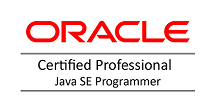
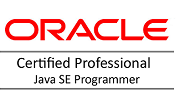
fixed some alignment

diff --git a/index.html b/index.html
@@ -87,8 +87,8 @@
                                 <h3 class="title mb-3"><a href="https://www.madeinindiaproducts.in" target="_blank">madeinindiaproducts.in - Amazon aggregator site caters only made in india products  </a></h3>
                                     
                                 <div class="desc text-left">                                    
-                                    <p>This is an eCommerce platfrom (an amazon aggregator) which is a catalogue to sale made in india products from amazon.in.
-									   User can check out large varities of indian origin products and can also pick the products and buy from amazon.in through this site which makes this site an amazon aggregator site.
+                                    <p>This is an eCommerce platfrom (an amazon aggregator) which is a catalogue to sell made in india products from amazon.in.
+									   customers can check out large varities of indian origin products and can also pick the products and buy from amazon.in through this site.
 									</p>
                                 </div><!--//desc-->         
                                 <a class="btn btn-cta-secondary" href="https://www.madeinindiaproducts.in" target="_blank"><i class="fas fa-thumbs-up"></i> Back my project</a>                 
@@ -101,7 +101,7 @@
                                 <div class="desc col-md-8 col-12">
                                     <h3 class="title"><a href="https://www.sageintacct.com/" target="_blank">Financial Management Cloud Solution (ERP) - The leading accounting and financial management software</a></h3>
                                     <p class="mb-2"> 
-									Sage Intacct offers financial management cloud solution to its lients and acquired by Sage (formerly known as Intacct).</p>
+									Sage Intacct offers financial management cloud solution (ERP) to its clients.</p>
                                     <p><a class="more-link" href="https://www.sageintacct.com/" target="_blank"><i class="fas fa-external-link-alt"></i>Find out more</a></p>
                                 </div><!--//desc-->                          
                             </div><!--//item-->
@@ -112,9 +112,9 @@
                                 </a>
                                 <div class="desc col-md-8 col-12">
                                     <h3 class="title"><a href="https://www.godigit.com/" target="_blank">Go Digit General Insurance - Direct portal for selling insurance to customers</a></h3>
-                                    <p class="mb-2"><ul>
-										<li>This is a customer facing portal for selling various Insurance products like Motor Insurance, Health Insurance, FLight Delay Insurance or Mobile Insurance</li>
-                                    </ul></p>
+                                    <p class="mb-2">
+										This is a customer facing portal for selling various Insurance products like Motor Insurance, Health Insurance, FLight Delay Insurance or Mobile Insurance
+                                    </p>
                                     <p><a class="more-link" href="https://www.godigit.com/" target="_blank"><i class="fas fa-external-link-alt"></i>Find out more</a></p>
                                 </div><!--//desc-->                          
                             </div><!--//item-->
@@ -131,14 +131,17 @@
                                 <h3 class="title">Software Engineer - <span class="place"><a href="#">Sage Intacct</a></span> <span class="year">(2018 - 2020)</span></h3>
                                 <p><ul>
                                         <li>Part of the Intacct Salesforce Integration development team and was actively involved in the development of features.</li>
-                                        <li>Took ownership of more than 50% of the team’s total features/escalations for the salesforce integration platform</li>
+                                        <li>Took ownership of more than 50% of the team’s total features/escalations for the salesforce integration platform.</li>
                                     </ul>
 									</p>
                             </div><!--//item-->
                             <div class="item">
                                 <h3 class="title">Senior Software Engineer - <span class="place"><a href="#">Go Digit General Insurance</a></span> <span class="year">(2017 - 2018)</span></h3>
-                                <p> <li>Part of the core development team and contributed to the development of the system from scratch.</li>
-                                     <li>Developed various RESTful APIs and various important functionalities in Spring Boot microservices architecture</li></p>
+                                <p><ul> 
+										<li>Part of the core development team and contributed to the development of the system from scratch.</li>
+										<li>Developed various RESTful APIs and various important functionalities in Spring Boot microservices architecture.</li>
+									</ul>
+								</p>
                             </div><!--//item-->
                             
                             <div class="item">
@@ -146,7 +149,8 @@
                                 <p><ul>
                                         <li>Part of the Infosys tool development team.</li>
 										<li>Made important contribution in revamping tool from obsolete adobe flex technology to spring boot microservices architecture.</li>
-										</ul></p>
+										</ul>
+										</p>
                             </div><!--//item-->
                             
                         </div><!--//content-->  
@@ -186,7 +190,7 @@
                         <h2 class="heading">Skills</h2>
                         <div class="content">
                             <p class="intro">
-                              I’ve been working as software engineer for over 5+ years. I started with web Development with technolgies like HTML ans CSS and later migrated to Java Back-end Development. I've worked on microservice Architecture with spring boot framework along with other popular coponents of spring framework like spring-core, spring-security, Junit(Testing framework), JPA/Hibernate ORM, MongoDB(NoSQL Database), Kafka(Messaging framework)</p>
+                              I’ve been working as software engineer for over 5+ years. I started with web Development with technolgies like HTML and CSS and later migrated to Java Back-end Development. I've worked on microservice Architecture with spring boot framework along with other popular components of spring framework like spring-core, spring-security, Junit(Testing framework), JPA/Hibernate ORM, MongoDB(NoSQL Database), Kafka(Messaging framework)</p>
                             
                             <div class="skillset">
                                
@@ -235,7 +239,7 @@
                                     </div><!--//level-bar-->                                 
                                 </div><!--//item-->
 								<div class="item">
-                                    <h3 class="level-title">Hibernate)<span class="level-label" data-toggle="tooltip" data-placement="left" data-animation="true" title="have been using this java based ORM framework to map relatinal database tables with java objects."><i class="fas fa-info-circle"></i>expert</span></h3>
+                                    <h3 class="level-title">Hibernate<span class="level-label" data-toggle="tooltip" data-placement="left" data-animation="true" title="have been using this java based ORM framework to map relatinal database tables with java objects."><i class="fas fa-info-circle"></i>expert</span></h3>
                                     <div class="level-bar">
                                         <div class="level-bar-inner" data-level="80%">
                                         </div>                                      
@@ -318,6 +322,10 @@
                                 <li class="item">
                                     <span class="title"><strong>English:</strong></span>
                                     <span class="level">Professional Proficiency<br class="visible-xs"/><i class="fas fa-star"></i> <i class="fas fa-star"></i> <i class="fas fa-star"></i> <i class="fas fa-star-half"></i> </span>
+                                </li><!--//item-->
+								<li class="item">
+                                    <span class="title"><strong>Hindi:</strong></span>
+                                    <span class="level">Native Speaker<br class="visible-sm visible-xs"/><i class="fas fa-star"></i> <i class="fas fa-star"></i> <i class="fas fa-star"></i> <i class="fas fa-star"></i><i class="fas fa-star"></i></i></span>
                                 </li><!--//item-->
 								<li class="item">
                                     <span class="title"><strong>Gujarati:</strong></span>
